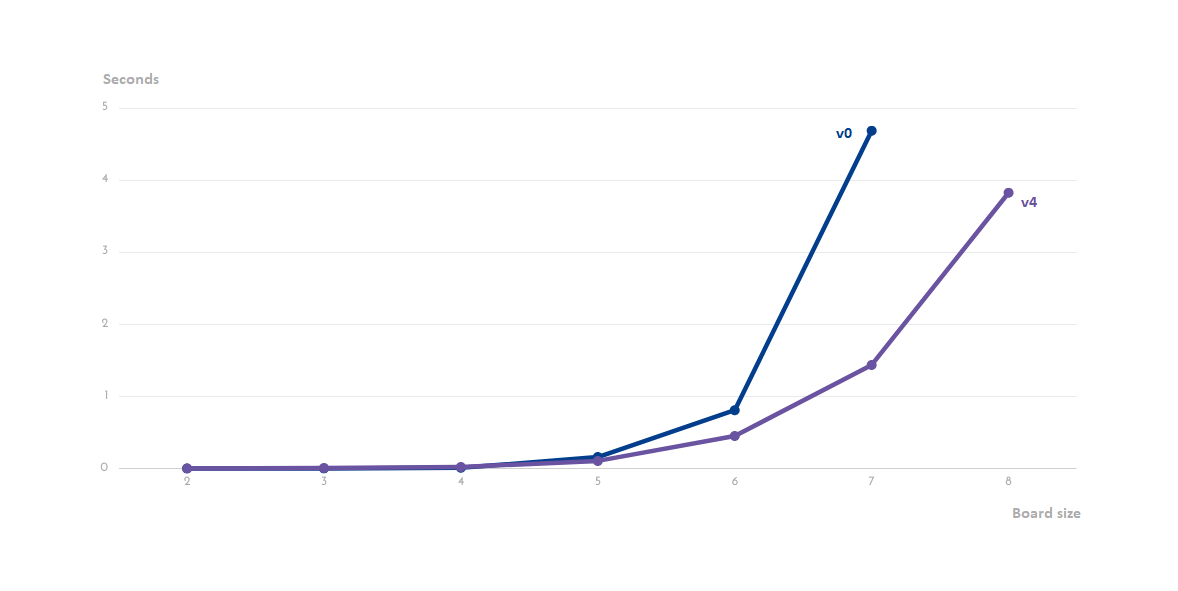
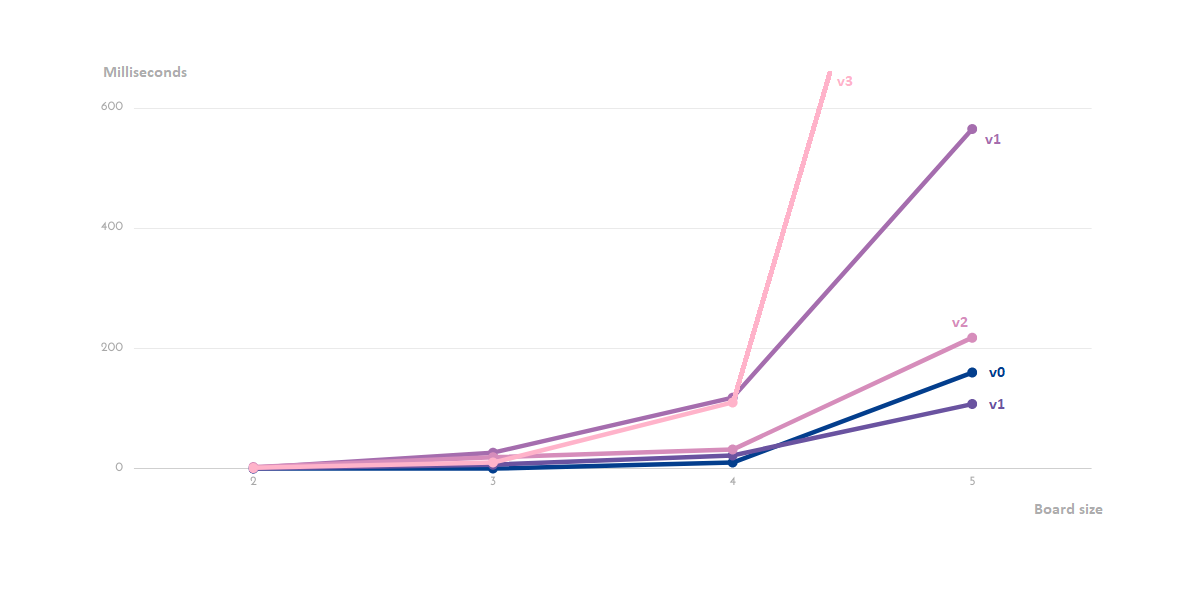
some measurement added

diff --git a/report/Report.md b/report/Report.md
@@ -199,9 +199,9 @@ The following table reports the durations in milliseconds of the minmax algorith
 
 |    Board size     |   v0    |   v1   |   v2    |   v3    |   v4    |
 | :---------------: | :-----: | :----: | :-----: | :-----: | :-----: |
-|         2         |  0.00   |   -    |    -    |    -    |  0.16   |
-|         3         |  0.00   |   -    |    -    |    -    |  6.50   |
-|         4         |  10.00  |   -    |    -    |    -    |  21.89  |
+|         2         |  0.00   |  1.40  |  2.76   |  1.17   |  0.16   |
+|         3         |  0.00   | 26.54  |  18.93  |  9.96   |  6.50   |
+|         4         |  10.00  | 118.21 |  31.65  | 110.21  |  21.89  |
 |         5         | 160.00  | 565.56 | 218.10  | 2960.00 | 107.41  |
 |         6         | 810.00  |   -    | 2054.15 |    -    | 452.11  |
 |         7         | 4690.00 |   -    |    -    |    -    | 1438.71 |
@@ -210,35 +210,27 @@ The following table reports the durations in milliseconds of the minmax algorith
 
 Note that for a board size bigger than 5, only the algorithms that were able to calculate the optimal move in a reasonable time are reported; while, for smaller board sizes, the non-reported fields were not relevant.
 
-The fourth version of the algorithm was the fastest one, as a matter of fact it has the biggest speed up if compared to the C version. The acceleration factors have been calculated by dividing the duration of the serial algorithm to the duration of the corresponding CUDA version.
+The fourth version of the algorithm was the fastest one, as a matter of fact it has the biggest speed up if compared to the C version. The acceleration factors have been calculated by dividing the duration of the serial algorithm to the duration of the corresponding CUDA version. A Nim board of the medium size of 5 rows was used to evaluate the best version of the algorithm. Values below 1 denotes better performance of the CPU.
 
 | Board size |  v0   |  v1   |  v2   |  v3   |  v4   |
 | :--------: | :---: | :---: | :---: | :---: | :---: |
-|     2      | 1.00  |       |       |       | << 1  |
-|     3      | 1.00  |       |       |       | << 1  |
-|     4      | 1.00  |       |       |       | 0.46  |
+|     2      | 1.00  | << 1  | << 1  | << 1  | << 1  |
+|     3      | 1.00  | << 1  | << 1  | << 1  | << 1  |
+|     4      | 1.00  | 0.08  | 0.32  | 0.09  | 0.46  |
 |     5      | 1.00  | 0.28  | 0.73  | 0.054 | 1.49  |
-|     6      | 1.00  |       |       |       | 1.79  |
-|     7      | 1.00  |       |       |       | 3.26  |
-|     8      |   -   |       |       |       | >> 1  |
-
-A Nim board of the medium size of 5 rows was used to evaluate the best version of the algorithm. Values below 1 denotes better performance of the CPU.
-
-| Board size |  v0   |  v4   |
-| :--------: | :---: | :---: |
-|     2      | 1.00  | << 1  |
-|     3      | 1.00  | << 1  |
-|     4      | 1.00  | 0.46  |
-|     5      | 1.00  | 1.49  |
-|     6      | 1.00  | 1.79  |
-|     7      | 1.00  | 3.26  |
-|     8      |   -   | >> 1  |
+|     6      | 1.00  |   -   |   -   |   -   | 1.79  |
+|     7      | 1.00  |   -   |   -   |   -   | 3.26  |
+|     8      |   -   |   -   |   -   |   -   | >> 1  |
 
 Note that the acceleration factor of v4 for board size of 2 and 3 can't be calculated since the profiler precision of the C version wasn't enough to measure the time spent; while, for a board size of 8, v0 was not able to calculate the optimal move in a reasonable time.
 
-The duration time of v0 and v4 was included in the following chart to emphasize the tendency of the GPU to progressively outperform the CPU on larger boards.
+The following plot reports the duration of the minmax algorithm for small board sizes, comparing all the versions.
 
 ![Duration comparison plot](duration_plot.png)
+
+The duration time of v0 and v4 was included in the following chart to emphasize the tendency of the GPU to progressively outperform the CPU on larger boards.
+
+![Duration comparison v0 v4 plot](duration_v0_v4_plot.png)
 
 The bar chart below shows a comparison between the number of global and shared transactions (read and write) playing with a board of 5 rows.
 
